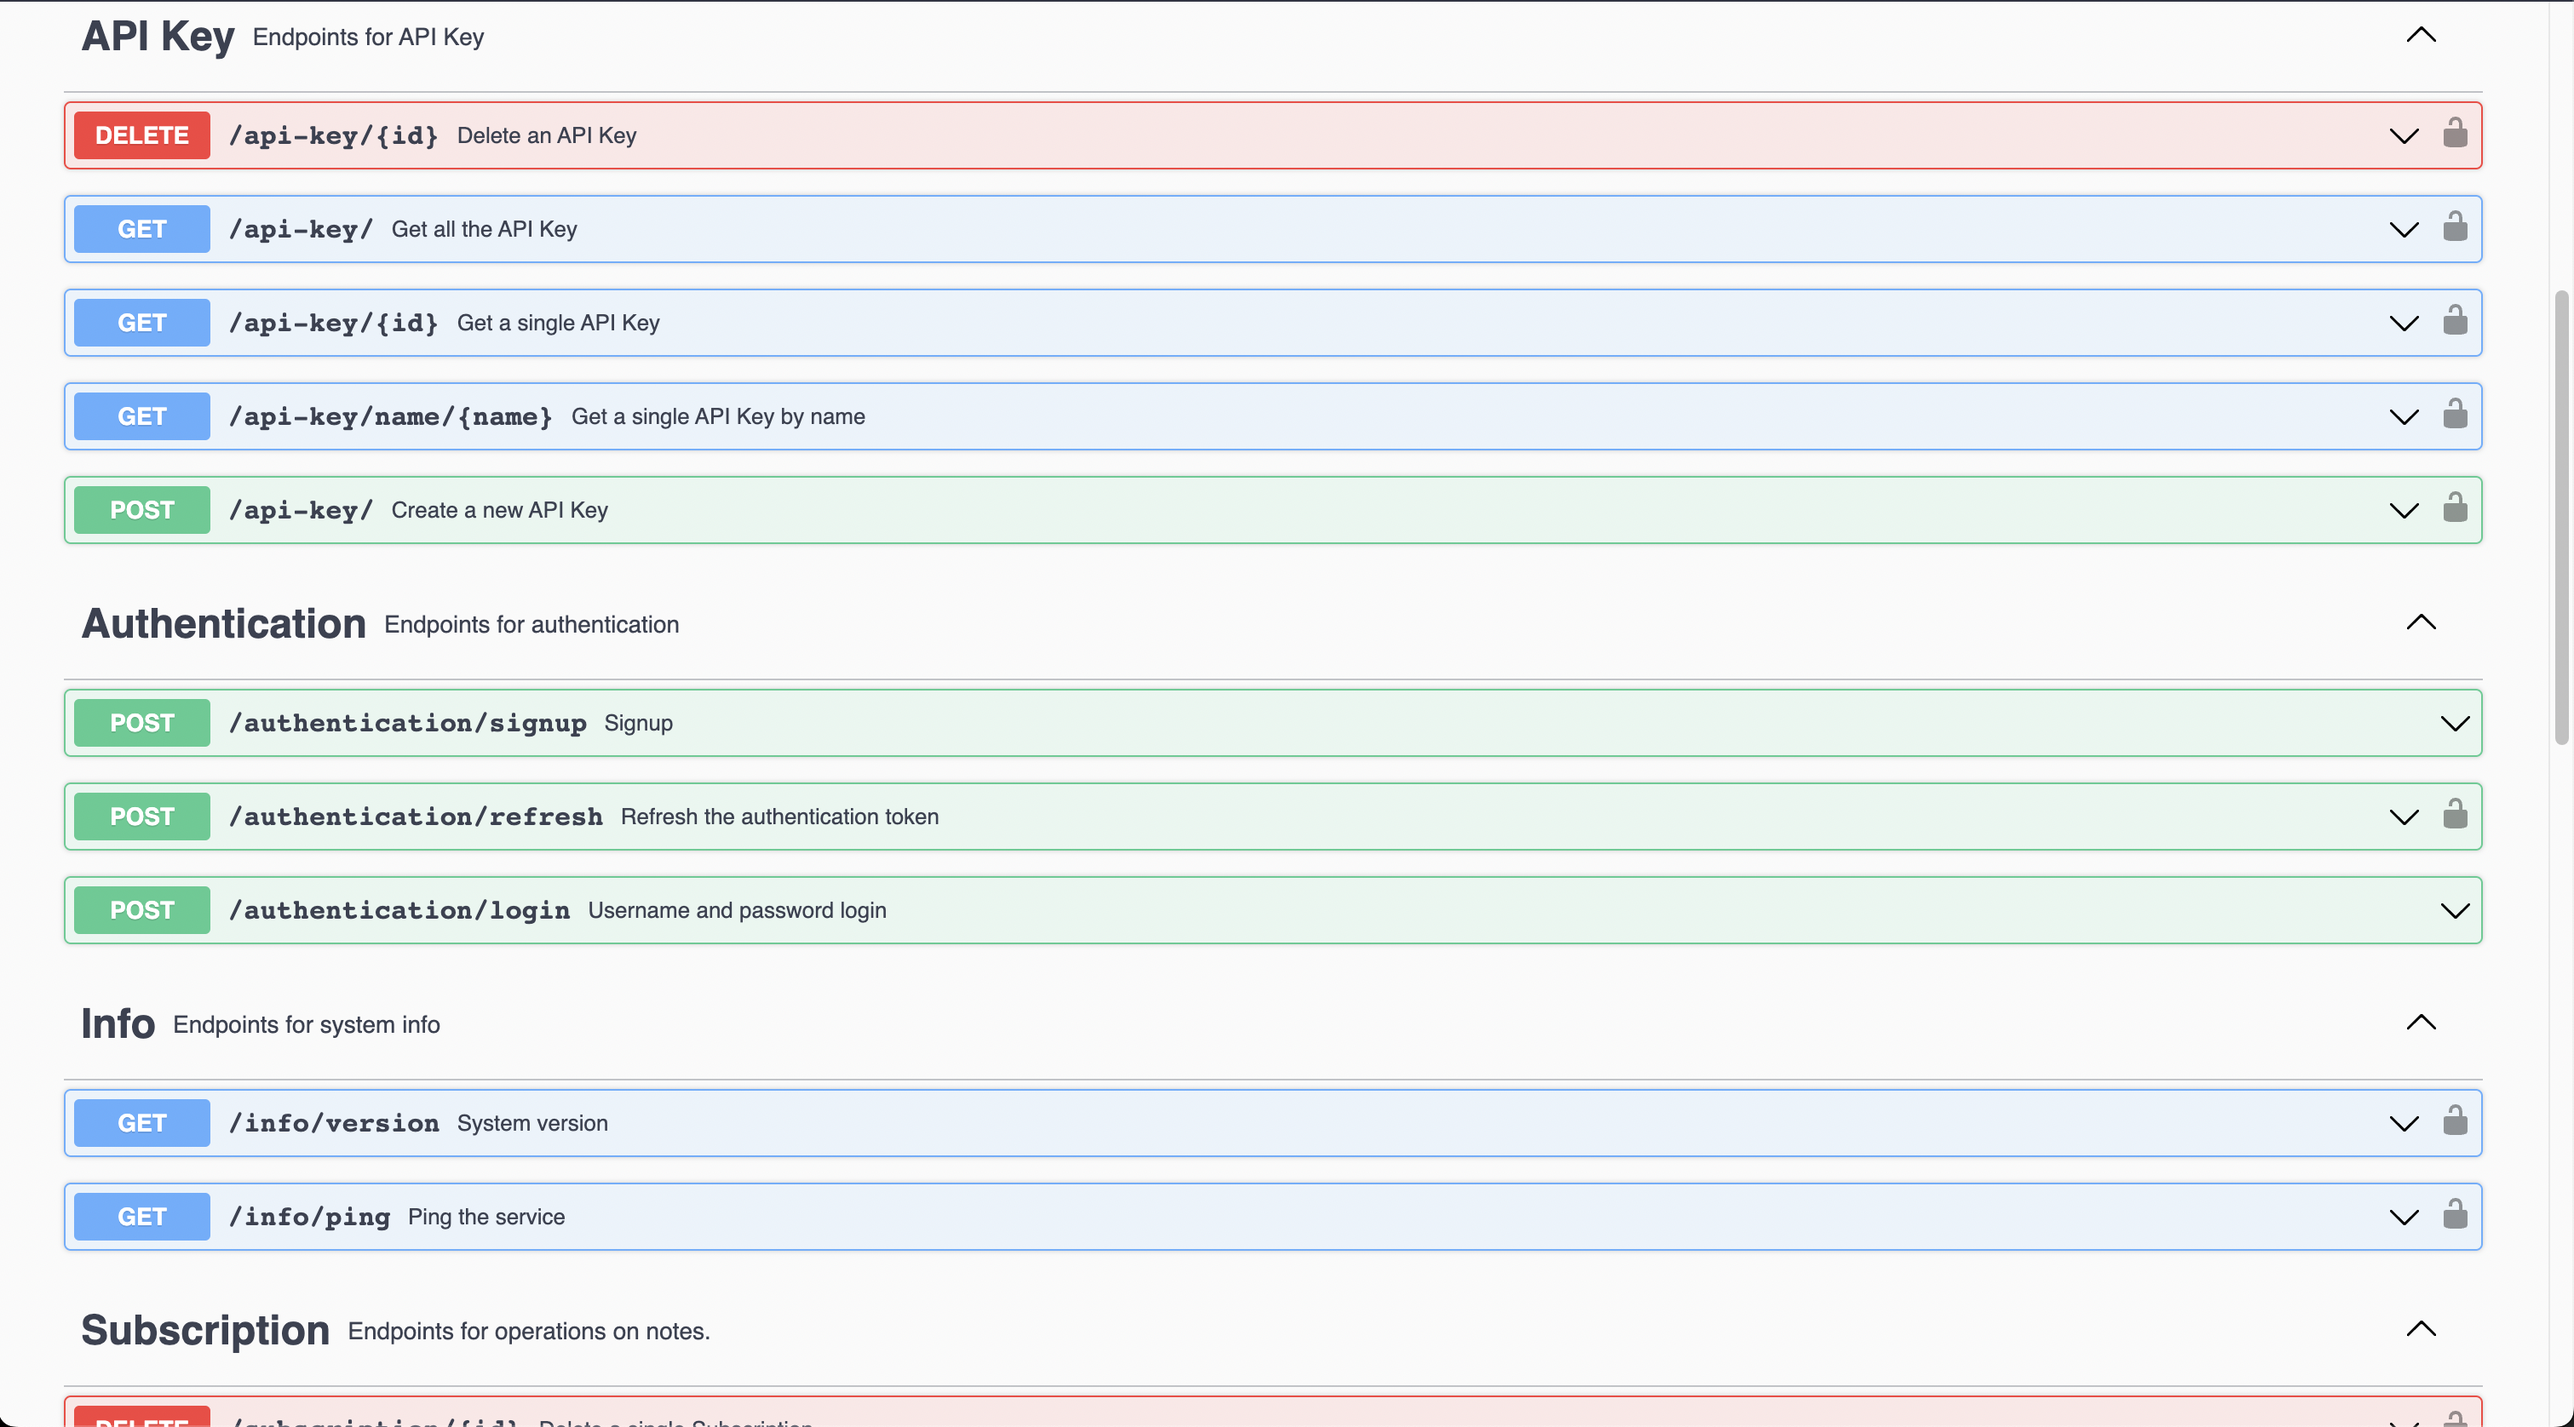
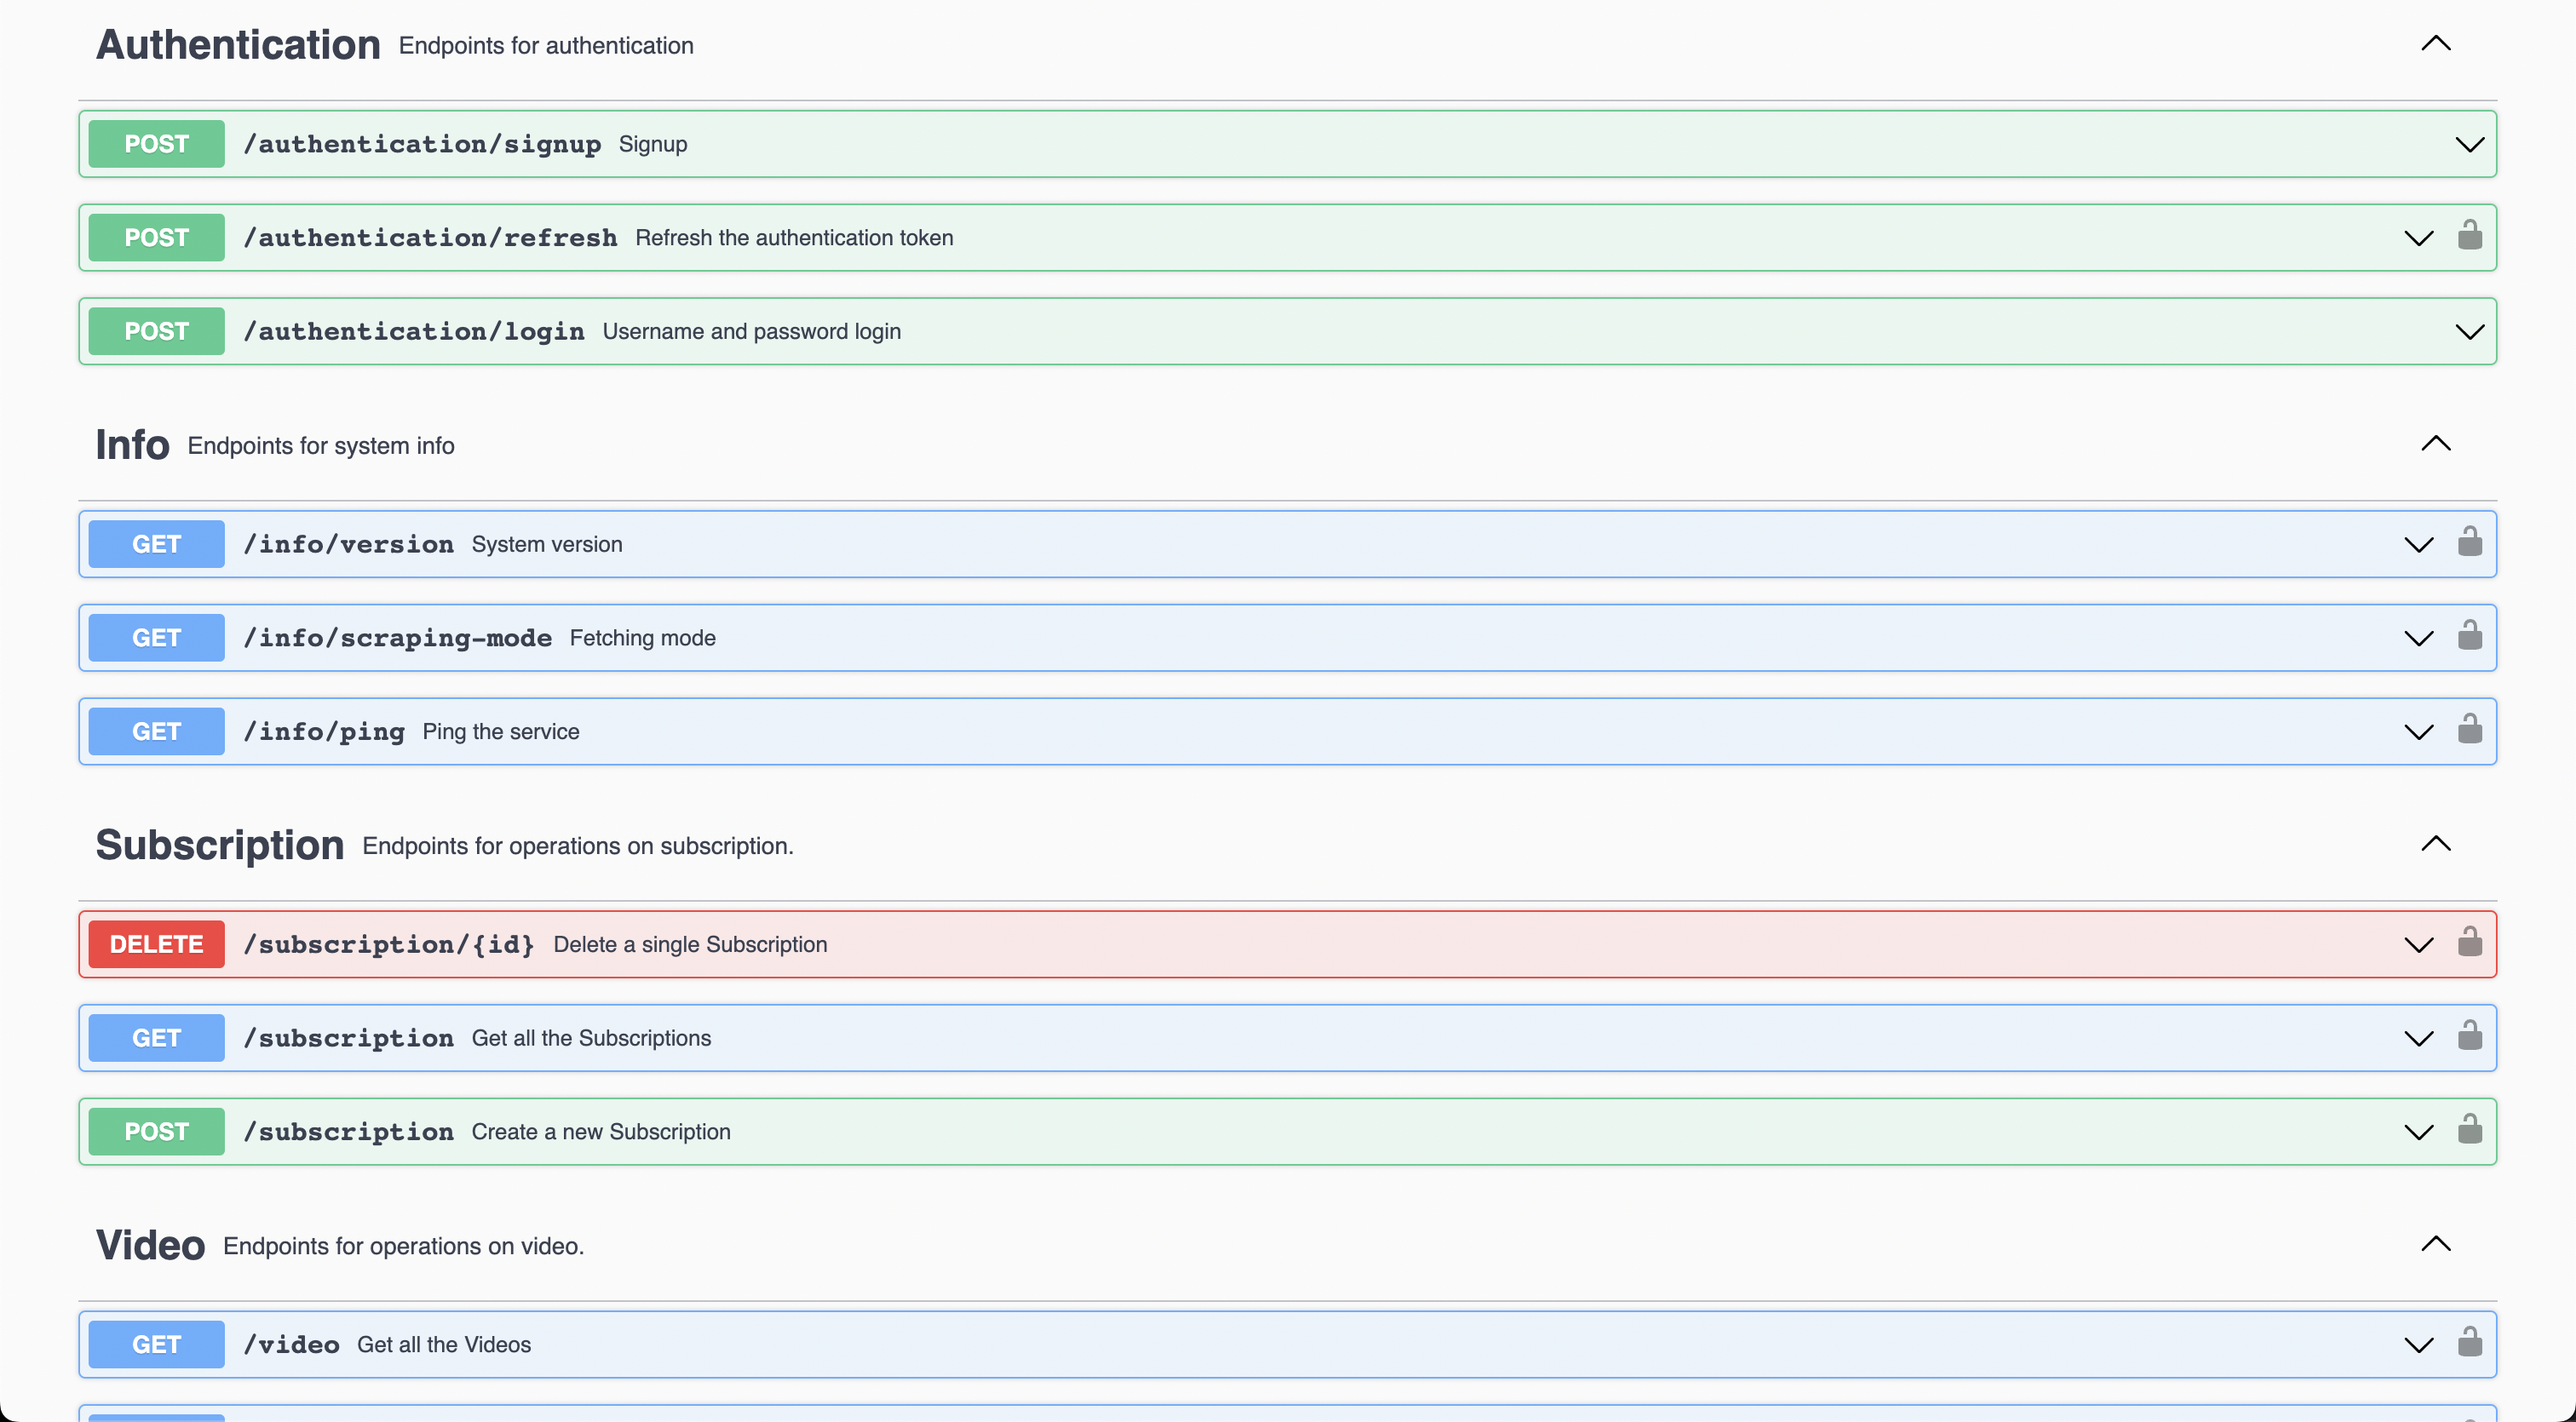
Rename some old fields to a meaningfull name

Changed region(s): [[0.0, 0.0, 1.0, 1.0]]

diff --git a/backend/src/main/java/com/github/mdeluise/ytsms/security/apikey/ApiKeyController.java b/backend/src/main/java/com/github/mdeluise/ytsms/security/apikey/ApiKeyController.java
@@ -30,8 +30,8 @@ public class ApiKeyController {
 
 
     @Autowired
-    public ApiKeyController(UserService userService, com.github.mdeluise.ytsms.security.apikey.ApiKeyService apiKeyService,
-                            com.github.mdeluise.ytsms.security.apikey.ApiKeyDTOConverter apiKeyDTOConverter) {
+    public ApiKeyController(UserService userService, ApiKeyService apiKeyService,
+                            ApiKeyDTOConverter apiKeyDTOConverter) {
         this.userService = userService;
         this.apiKeyService = apiKeyService;
         this.apiKeyDTOConverter = apiKeyDTOConverter;
@@ -40,8 +40,7 @@ public class ApiKeyController {
 
     @PostMapping("/")
     @Operation(
-        summary = "Create a new API Key",
-        description = "Create a new API Key."
+        summary = "Create a new API Key", description = "Create a new API Key."
     )
     public ResponseEntity<String> createNewApiKey(@RequestParam(required = false) String name) {
         Authentication authentication = SecurityContextHolder.getContext().getAuthentication();
@@ -54,8 +53,7 @@ public class ApiKeyController {
 
     @DeleteMapping("/{id}")
     @Operation(
-        summary = "Delete an API Key",
-        description = "Delete an API Key."
+        summary = "Delete an API Key", description = "Delete an API Key."
     )
     public ResponseEntity<String> removeApiKey(@PathVariable("id") Long apiKeyId) {
         Authentication authentication = SecurityContextHolder.getContext().getAuthentication();
@@ -70,11 +68,11 @@ public class ApiKeyController {
     @Operation(
         summary = "Get all the API Key", description = "Get all the API Key."
     )
-    public ResponseEntity<Collection<com.github.mdeluise.ytsms.security.apikey.ApiKeyDTO>> getAllApiKey() {
+    public ResponseEntity<Collection<ApiKeyDTO>> getAllApiKey() {
         Authentication authentication = SecurityContextHolder.getContext().getAuthentication();
         String username = authentication.getName();
         User user = userService.get(username);
-        List<com.github.mdeluise.ytsms.security.apikey.ApiKeyDTO> result = apiKeyService.getAll(user).stream().map(apiKeyDTOConverter::convertToDTO).toList();
+        List<ApiKeyDTO> result = apiKeyService.getAll(user).stream().map(apiKeyDTOConverter::convertToDTO).toList();
         return ResponseEntity.ok().body(result);
     }
 
@@ -83,26 +81,25 @@ public class ApiKeyController {
     @Operation(
         summary = "Get a single API Key", description = "Get a single API Key, according to the `id` parameter."
     )
-    public ResponseEntity<com.github.mdeluise.ytsms.security.apikey.ApiKeyDTO> getApiKey(@PathVariable("id") Long id) {
+    public ResponseEntity<ApiKeyDTO> getApiKey(@PathVariable("id") Long id) {
         Authentication authentication = SecurityContextHolder.getContext().getAuthentication();
         String username = authentication.getName();
         User user = userService.get(username);
-        com.github.mdeluise.ytsms.security.apikey.ApiKeyDTO
-            result = apiKeyDTOConverter.convertToDTO(apiKeyService.get(user, id));
+        ApiKeyDTO result = apiKeyDTOConverter.convertToDTO(apiKeyService.get(user, id));
         return ResponseEntity.ok().body(result);
     }
 
 
     @GetMapping("/name/{name}")
     @Operation(
-        summary = "Get a single API Key by name", description = "Get a single API Key, according to the `name` parameter."
+        summary = "Get a single API Key by name",
+        description = "Get a single API Key, according to the `name` parameter."
     )
-    public ResponseEntity<com.github.mdeluise.ytsms.security.apikey.ApiKeyDTO> getApiKeyByName(@PathVariable("name") String name) {
+    public ResponseEntity<ApiKeyDTO> getApiKeyByName(@PathVariable("name") String name) {
         Authentication authentication = SecurityContextHolder.getContext().getAuthentication();
         String username = authentication.getName();
         User user = userService.get(username);
-        com.github.mdeluise.ytsms.security.apikey.ApiKeyDTO
-            result = apiKeyDTOConverter.convertToDTO(apiKeyService.get(user, name));
+        ApiKeyDTO result = apiKeyDTOConverter.convertToDTO(apiKeyService.get(user, name));
         return ResponseEntity.ok().body(result);
     }
 }

diff --git a/backend/src/main/java/com/github/mdeluise/ytsms/subscription/SubscriptionController.java b/backend/src/main/java/com/github/mdeluise/ytsms/subscription/SubscriptionController.java
@@ -1,14 +1,10 @@
 package com.github.mdeluise.ytsms.subscription;
 
-import com.github.mdeluise.ytsms.authentication.User;
-import com.github.mdeluise.ytsms.authentication.UserService;
 import io.swagger.v3.oas.annotations.Operation;
 import io.swagger.v3.oas.annotations.Parameter;
 import io.swagger.v3.oas.annotations.tags.Tag;
 import org.springframework.beans.factory.annotation.Autowired;
 import org.springframework.http.ResponseEntity;
-import org.springframework.security.core.Authentication;
-import org.springframework.security.core.context.SecurityContextHolder;
 import org.springframework.web.bind.annotation.DeleteMapping;
 import org.springframework.web.bind.annotation.GetMapping;
 import org.springframework.web.bind.annotation.PathVariable;
@@ -23,19 +19,17 @@ import java.util.stream.Collectors;
 
 @RestController
 @RequestMapping("/subscription")
-@Tag(name = "Subscription", description = "Endpoints for operations on notes.")
+@Tag(name = "Subscription", description = "Endpoints for operations on subscription.")
 public class SubscriptionController {
-    private final UserService userService;
     private final SubscriptionService subscriptionService;
     private final SubscriptionDTOConverter subscriptionDtoConverter;
 
 
     @Autowired
     public SubscriptionController(SubscriptionDTOConverter subscriptionDTOConverter,
-                                  SubscriptionService subscriptionService, UserService userService) {
+                                  SubscriptionService subscriptionService) {
         this.subscriptionService = subscriptionService;
         this.subscriptionDtoConverter = subscriptionDTOConverter;
-        this.userService = userService;
     }
 
 
@@ -62,14 +56,10 @@ public class SubscriptionController {
 
 
     @Operation(
-        summary = "Create a new Subscription",
-        description = "Create a new Subscription."
+        summary = "Create a new Subscription", description = "Create a new Subscription."
     )
     @PostMapping
     public ResponseEntity<SubscriptionDTO> saveWithId(@RequestBody SubscriptionDTO entityToSave) {
-        Authentication authentication = SecurityContextHolder.getContext().getAuthentication();
-        User authenticatedUser = userService.get(authentication.getName());
-        entityToSave.setUserId(authenticatedUser.getId());
         SubscriptionDTO result = subscriptionDtoConverter.convertToDTO(
             subscriptionService.save(subscriptionDtoConverter.convertFromDTO(entityToSave)));
         return ResponseEntity.ok(result);

diff --git a/backend/src/main/java/com/github/mdeluise/ytsms/ApplicationConfig.java b/backend/src/main/java/com/github/mdeluise/ytsms/ApplicationConfig.java
@@ -24,10 +24,10 @@ import org.springframework.security.config.annotation.method.configuration.Enabl
 @Configuration
 @OpenAPIDefinition(
     info = @Info(
-        title = "Sub Feed REST API", version = "1.0",
-        description = "<h1>Introduction</h1>" + "<p>Sub Feed is a self-hosted, open " + "source, ...</p>",
+        title = "YTSMS REST API", version = "1.0",
+        description = "<h1>Introduction</h1>" + "<p>YTSMS is a self-hosted, open " + "source, ...</p>",
         license = @License(name = "Apache 2.0", url = "https://www.apache.org/licenses/LICENSE-2.0"),
-        contact = @Contact(name = "GitHub page", url = "https://github.com/MDeLuise/rss-tube")
+        contact = @Contact(name = "GitHub page", url = "https://github.com/MDeLuise/ytsms")
     ), security = {@SecurityRequirement(name = "bearerAuth")}, servers = {
     @Server(description = "Production", url = "http://localhost:8080/api"),
     @Server(description = "Developer", url = "http://localhost:8085/api")

diff --git a/backend/src/main/java/com/github/mdeluise/ytsms/subscription/SubscriptionDTO.java b/backend/src/main/java/com/github/mdeluise/ytsms/subscription/SubscriptionDTO.java
@@ -14,7 +14,11 @@ public class SubscriptionDTO {
     private String channelName;
     @Schema(description = "User ID of the subscription.", example = "1", accessMode = Schema.AccessMode.READ_ONLY)
     private Long userId;
-    @Schema(description = "Link of the subscription channel's thumbnail.", example = "TO_INSERT", accessMode = Schema.AccessMode.READ_ONLY)
+    @Schema(
+        description = "Link of the subscription channel's thumbnail.",
+        example = "https://yt3.googleusercontent.com/7gH1GpiT0XGWatAc27MwqNH8PdUf1LC5zz3MS_n5yJ4MO9hoYXcS54ay5JlOfNAZNx8gdcEUig=s176-c-k-c0x00ffffff-no-rj",
+        accessMode = Schema.AccessMode.READ_ONLY
+    )
     private String channelThumbnailLink;
 
 

diff --git a/backend/src/main/java/com/github/mdeluise/ytsms/subscription/SubscriptionService.java b/backend/src/main/java/com/github/mdeluise/ytsms/subscription/SubscriptionService.java
@@ -59,10 +59,7 @@ public class SubscriptionService {
 
     @Transactional
     public Subscription save(Subscription entityToSave) {
-        User authenticatedUser = getAuthenticatedUser();
-        if (!authenticatedUser.equals(entityToSave.getUser())) {
-            throw new UnauthorizedException();
-        }
+        entityToSave.setUser(getAuthenticatedUser());
         if (entityToSave.getChannel().getId() == null) {
             try {
                 String channelID = infoExtractor.getChannelIDFromUsername(entityToSave.getChannel().getName());

diff --git a/backend/src/main/java/com/github/mdeluise/ytsms/video/VideoDTO.java b/backend/src/main/java/com/github/mdeluise/ytsms/video/VideoDTO.java
@@ -9,7 +9,7 @@ import java.util.Objects;
 public class VideoDTO {
     @Schema(description = "ID of the video.", example = "6Rz2M7FmJBE")
     private String id;
-    @Schema(description = "Title of the video.", example = "Introduction to Sub Feed")
+    @Schema(description = "Title of the video.", example = "Introduction to YTSMS")
     private String title;
     @Schema(description = "Published date of the video.")
     private Date publishedAt;
